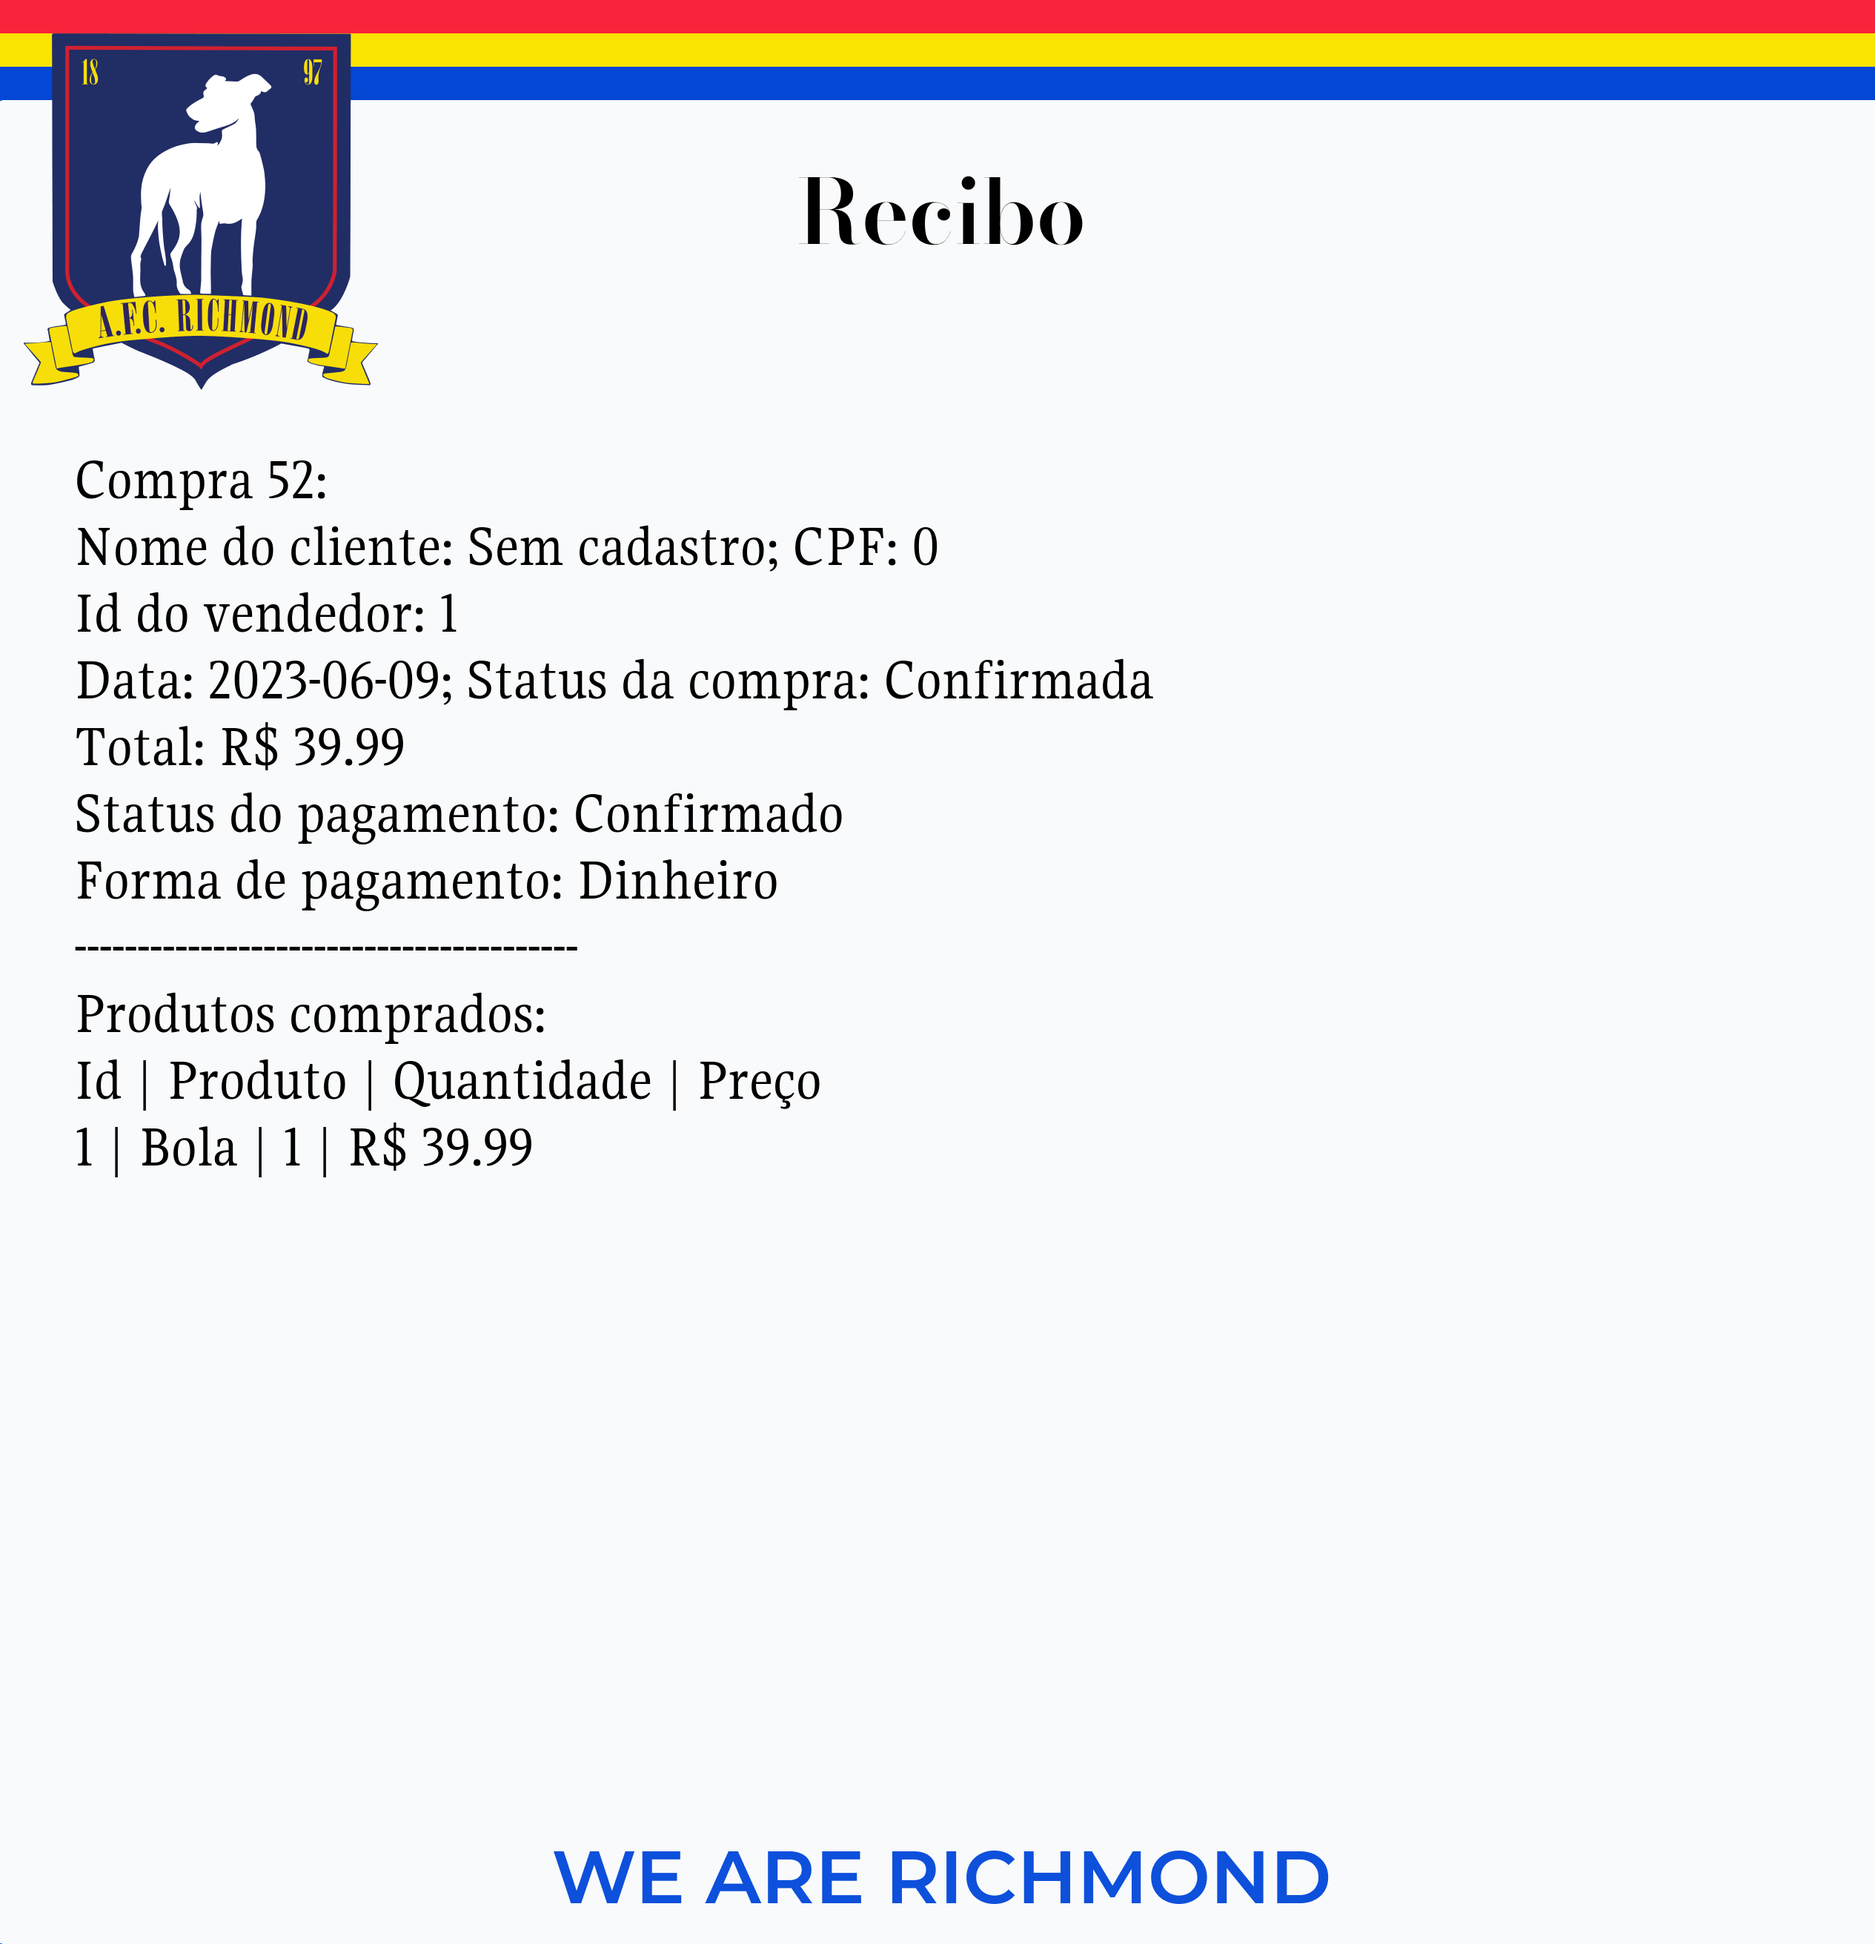
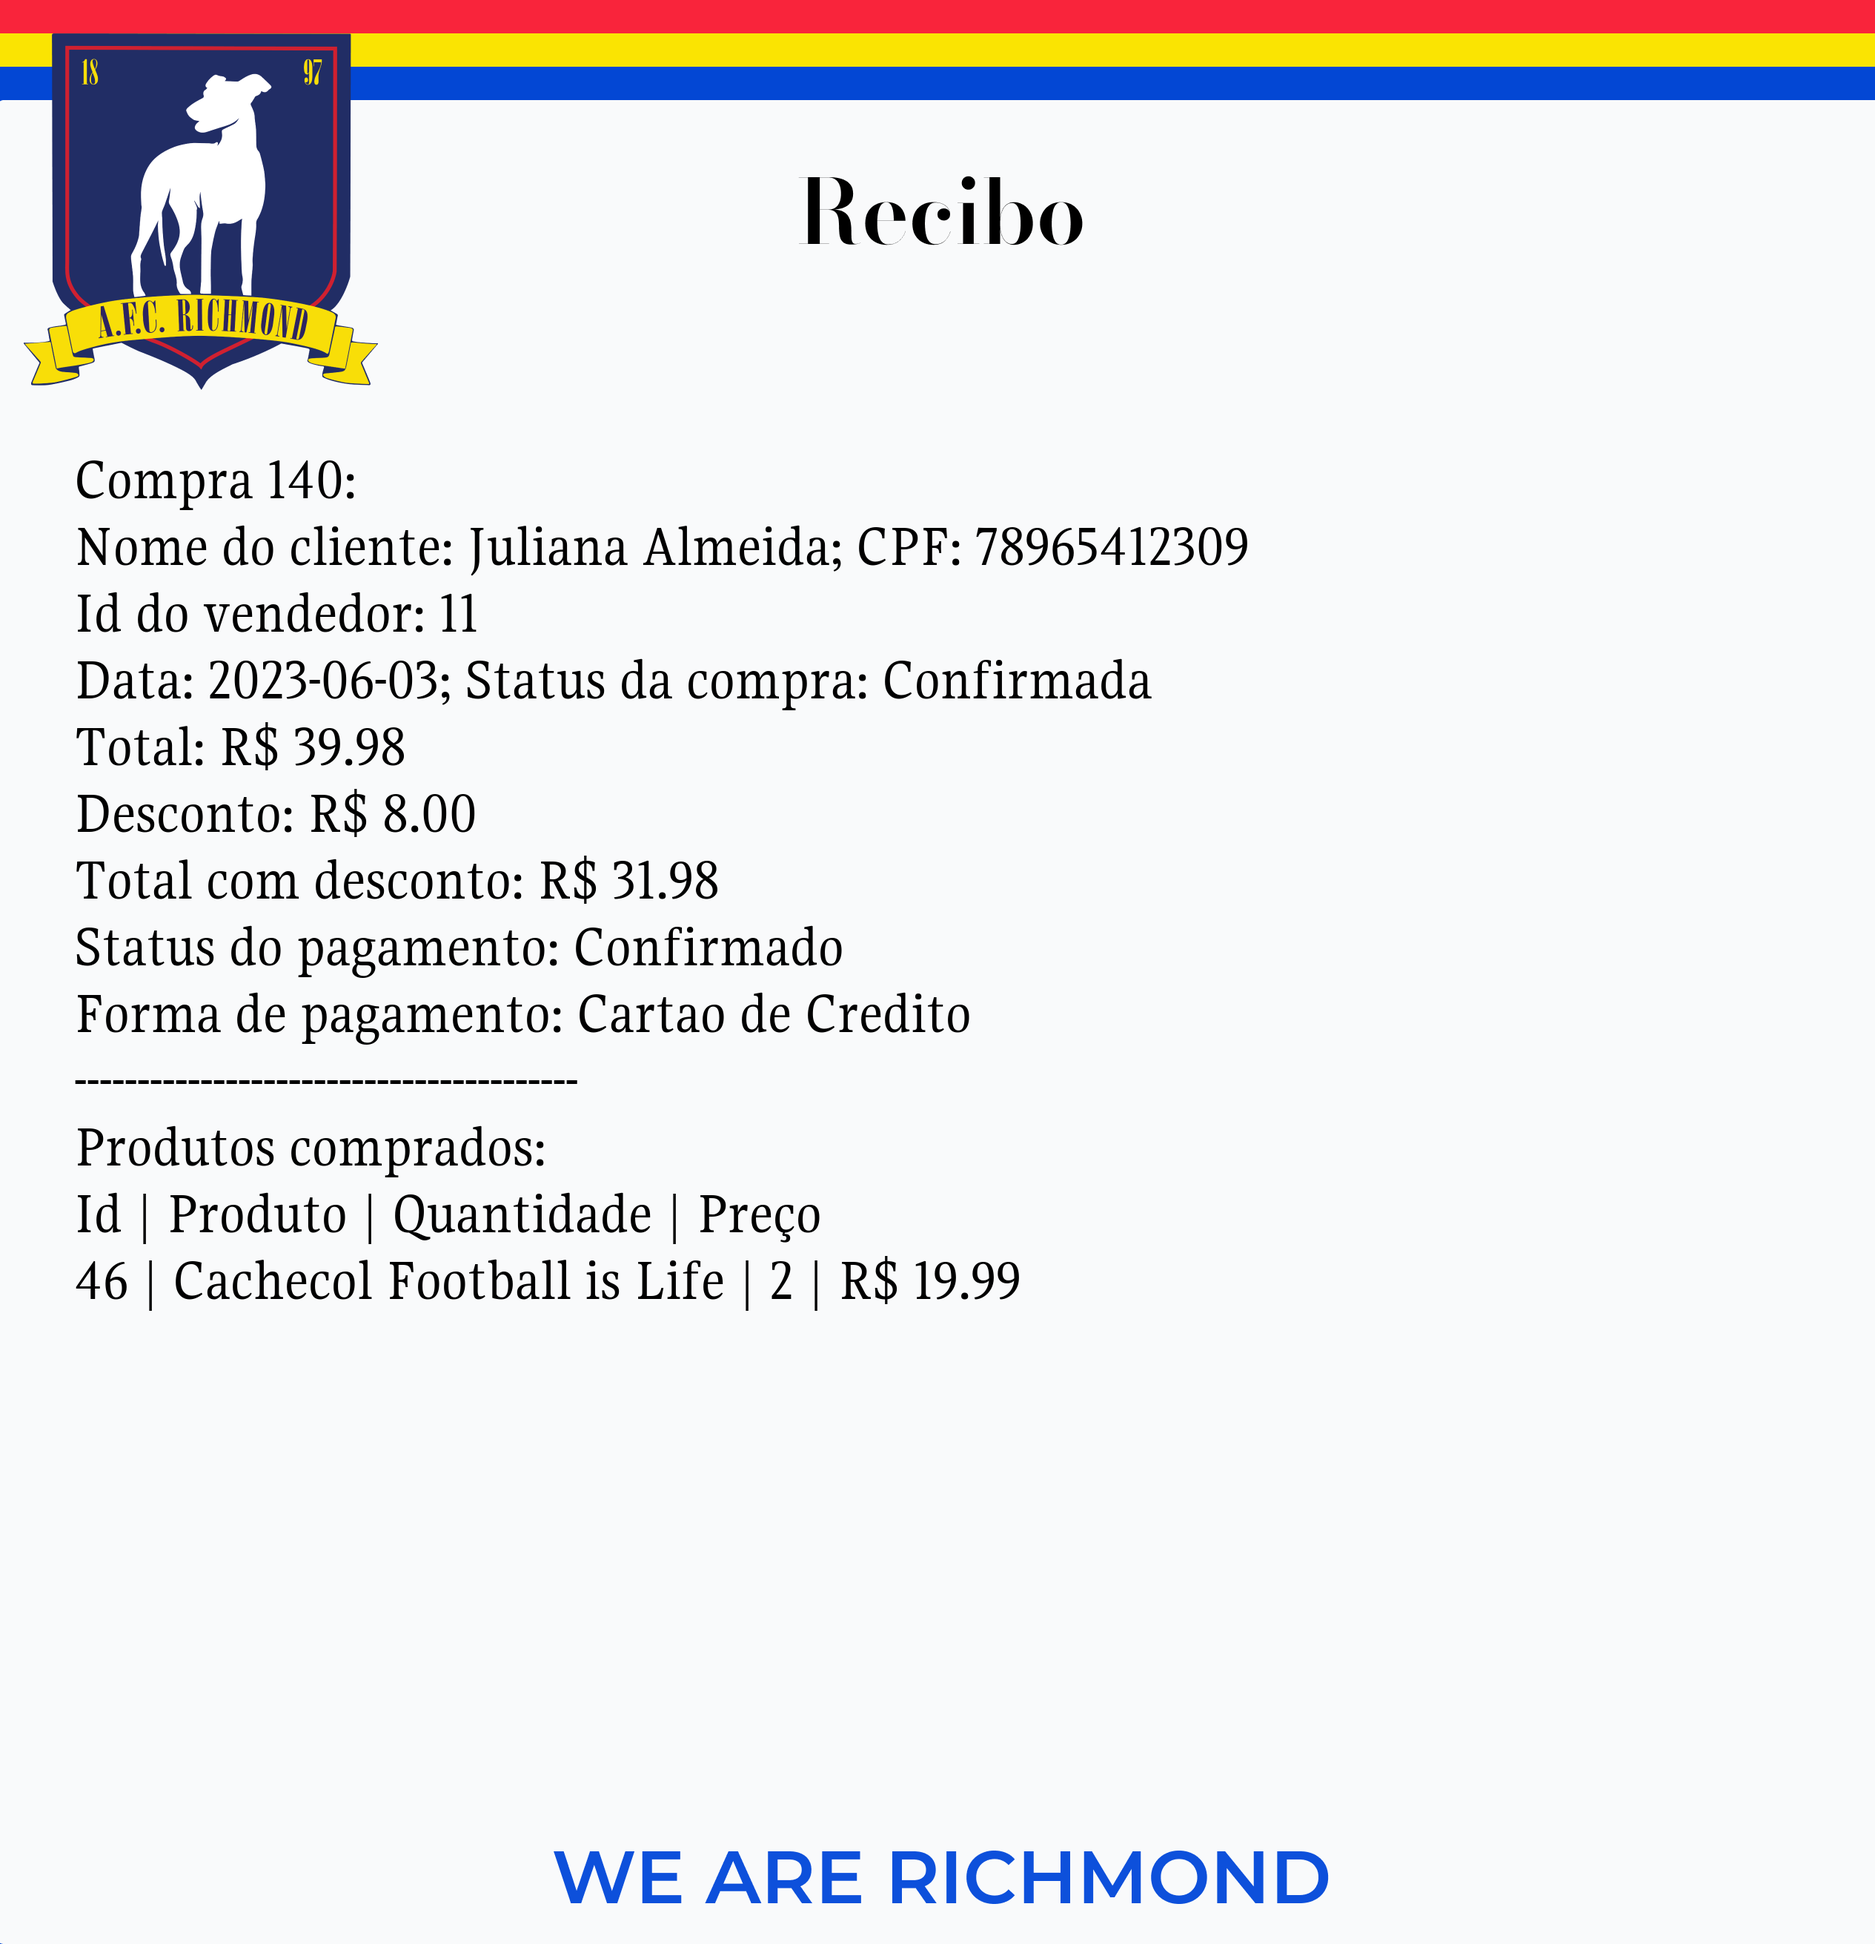
agora gera 2 via de uma compra

diff --git a/f_manipulacao.py b/f_manipulacao.py
@@ -418,16 +418,25 @@ def cancelar_compra():
     fp.mensagem_4()
 
 def relatorio():
-    id = fi.pedir_id()
-    mes, ano = fi.pedir_mes_ano()
+    escolha = fi.opcao_menu_relatorio()
+    if escolha == '1':
+        id = fi.pedir_id()
+        mes, ano = fi.pedir_mes_ano()
 
-    if not Vendedor.validate_id(id):
-        fp.mensagem_erro_id_invalido()
-        return
+        if not Vendedor.validate_id(id):
+            fp.mensagem_erro_id_invalido()
+            return
+        
+        info = fr.consultas(id, mes, ano)
+        fr.relatorio_terminal(*info)
+        fr.relatorio_png(*info)
     
-    info = fr.consultas(id, mes, ano)
-    fr.relatorio_terminal(*info)
-    fr.relatorio_png(*info)
+    elif escolha == '2':
+        id = fi.pedir_id()
+        if not Compra.validate_id(id):
+            fp.mensagem_erro_id_invalido()
+            return
+        fr.recibo(id)
 
 def remover_produto():
     id = fi.pedir_id()

diff --git a/f_input.py b/f_input.py
@@ -438,6 +438,18 @@ def opcao_menu_produto_busca():
 
     return escolha
 
+def opcao_menu_relatorio():
+    print("----------------------------------------")
+    print("Menu - Relatórios: ")
+    print("1 - Relatório de vendas mensais por vendedor")
+    print("2 - Segunda via de um recibo")
+
+    escolha = input("Digite: ")
+    while escolha not in ('1','2'):
+        escolha = input("Opção inválida! Digite novamente: ")
+
+    return escolha
+
 # Retorna str
 def opcao_menu_vendedor():
     print("Menu - Vendedores: ")

diff --git a/f_print.py b/f_print.py
@@ -230,6 +230,11 @@ def mensagem_erro_reinicie():
     print("Eita, deu um ruim aqui que é melhor reiniciar o programa.")
     print("----------------------------------------")
 
+def mensagem_recibo_gerado():
+    print("----------------------------------------")
+    print("Recibo gerado!")
+    print("----------------------------------------")
+
 def mensagem_sucesso():
     print("----------------------------------------")
     print("Operação realizada com sucesso!")

diff --git a/f_relatorio.py b/f_relatorio.py
@@ -207,3 +207,5 @@ def recibo(id_compra):
     
     # Salva a imagem
     image.save("relatorio_files/recibo.png")
+
+    fp.mensagem_recibo_gerado()
